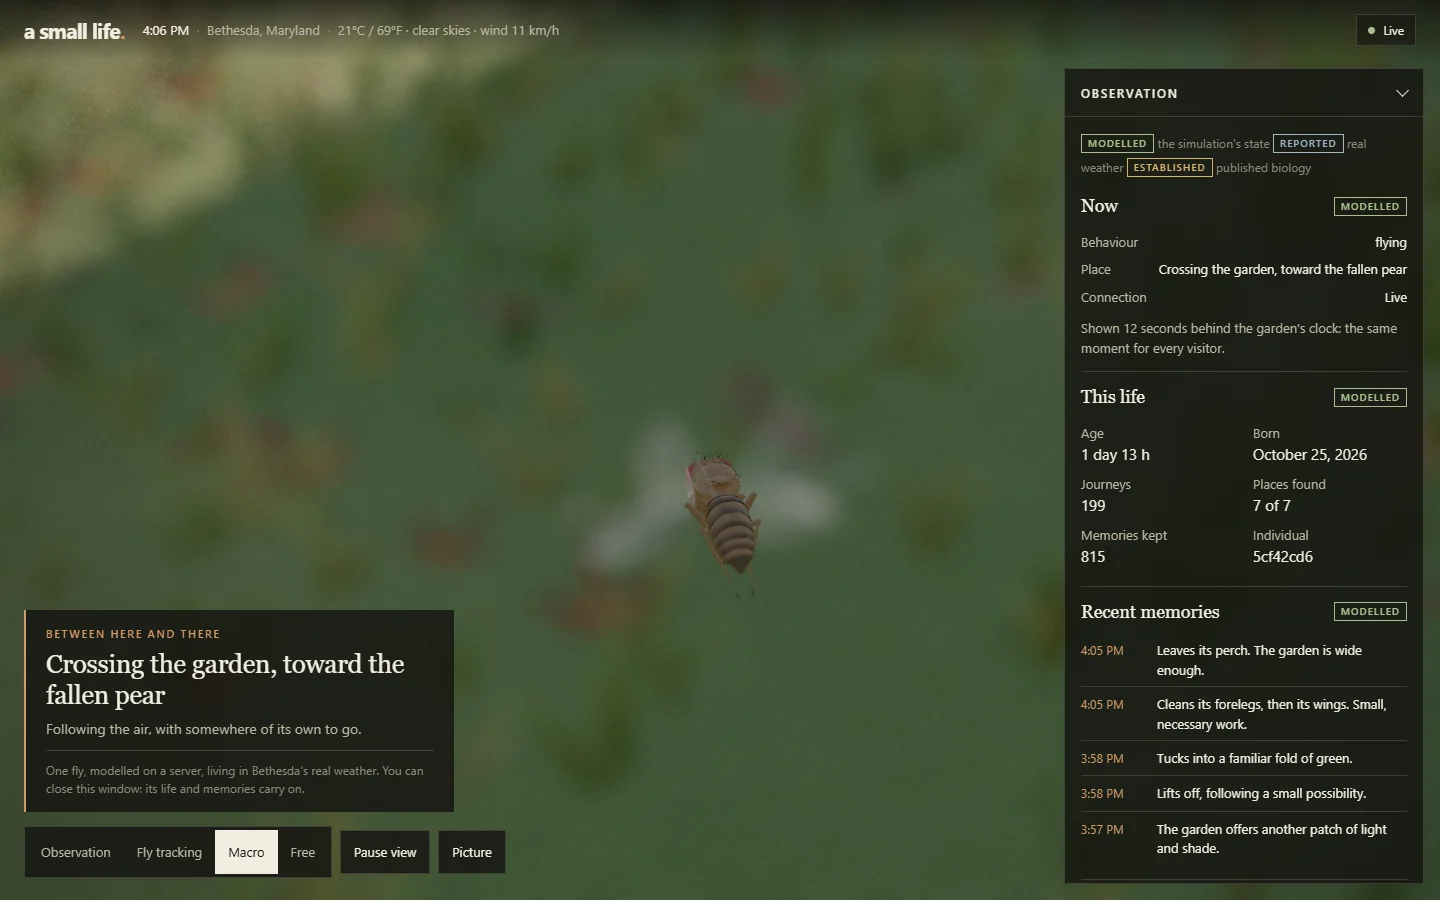
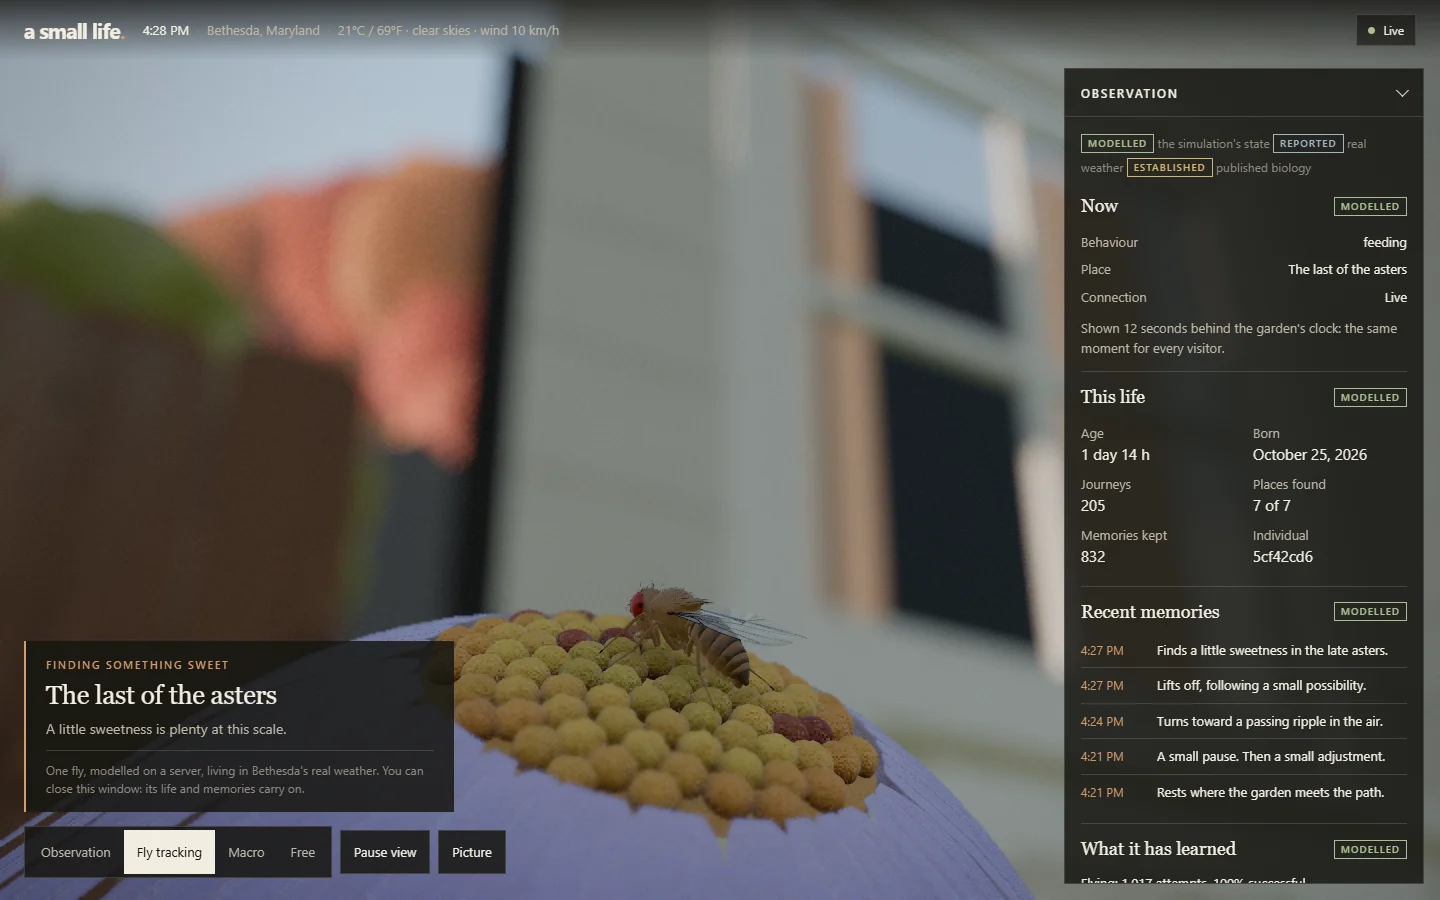
Record the live garden's first clay deploy
The live garden at 150.136.49.49 has served release
garden-20261026-65635e04cc63 (built from 5957f4d) since 20:27 UTC on
2026-10-26. The fly was not restarted: the same life (5cf42cd6) runs in the
same process, and a fresh backup was checked before the swap.

docs/LIVE_GARDEN.md now carries the status, a deployment record, the live
site's check results and a photograph of the live page. The README says the
clay page is live.

diff --git a/docs/LIVE_GARDEN.md b/docs/LIVE_GARDEN.md
@@ -6,13 +6,14 @@ in a 3D Bethesda back garden instead of the flat 2D painting. The page is a
 viewer. The garden's Python service remains the only thing that decides what
 the fly does; this page reads its state and draws it.
 
-**Status (2026-10-26): not deployed.** The live garden still serves its 2D page
-(release `ui-20261025-9abcdf40d541`). Everything below was verified locally,
-against recorded live states and against the live garden's `/api/state` read
-through a local server. [Deploying](#deploying) lists the remaining steps.
-Until they have run and been verified, nothing here describes the live site.
+**Status: live since 2026-10-26.** At 20:27 UTC (4:27 PM in Bethesda) the live
+garden began serving this page as release `garden-20261026-65635e04cc63`,
+built from commit `5957f4d`, in place of its 2D page
+(`ui-20261025-9abcdf40d541`). The fly was not restarted, reset or replaced.
+The [deployment record](#deployment-record-2026-10-26) lists what was checked
+before and after.
 
-| The live page today (11:09 AM, 2026-10-26)                          | The clay garden, on a recorded live state from 11:27 AM the same day |
+| The live page before (11:09 AM, 2026-10-26)                         | The clay garden, on a recorded live state from 11:27 AM the same day |
 | ------------------------------------------------------------------- | -------------------------------------------------------------------- |
 | ![The live 2D garden page](media/live-garden/before-garden.webp)    | ![The clay garden by day](media/live-garden/day.webp)                |
 | ![The live 2D page on a phone](media/live-garden/before-phone.webp) | ![The clay garden on a phone](media/live-garden/after-phone.webp)    |
@@ -23,14 +24,14 @@ Until they have run and been verified, nothing here describes the live site.
 | **Evening**                                                             | **Night**                                                 |
 | ![The garden at dusk](media/live-garden/dusk.webp)                      | ![The saucer by moonlight](media/live-garden/night.webp)  |
 
-![The page drawing the live garden's state at 4:06 PM: the fly in flight toward the fallen pear, beside the observation panel](media/live-garden/live.webp)
+![The live garden after the deploy: the fly feeding on the asters at 4:28 PM, beside the observation panel](media/live-garden/live.webp)
 
-The clay pictures are local renders of this release. All but the last replay
+The clay pictures above the last are local renders of this release, replaying
 live states recorded read-only on 2026-10-26; the dusk and night pictures move
-the clock to 6:21 PM and 9:30 PM to show the light. The last was drawn from
-the live garden's own state at 4:06 PM that day, read through a local server:
-the fly is crossing to the fallen pear, 199 journeys and 815 memories into its
-life.
+the clock to 6:21 PM and 9:30 PM to show the light. The last is the live site
+itself a minute after the deploy, at 4:28 PM, photographed through a local
+proxy because Chrome refuses the bare address: the fly feeding on the asters,
+205 journeys and 832 memories into its life.
 
 ## What the page may and may not do
 
@@ -297,17 +298,18 @@ What only the garden's server can guarantee, and its present limits:
 
 Measured by `tools/garden.mjs check` on release `garden-20261026-65635e04cc63`
 in headless Chrome 151, on this repository's development laptop (Snapdragon X,
-Adreno X1-45 GPU via ANGLE/Direct3D 11). It ran twice: on recorded states
-(replay), and on the live garden's state (live):
+Adreno X1-45 GPU via ANGLE/Direct3D 11). It ran three times: before the deploy
+on recorded states (replay) and on the live garden's state (live), and after
+it on the live site through a proxy (live site):
 
-| Measure                                                   | Replay                                                 | Live                     |
-| --------------------------------------------------------- | ------------------------------------------------------ | ------------------------ |
-| Frame interval, 1440×900, DPR 1, fly tracking, High       | median 16.7 ms, 90th percentile 16.8 ms                | the same                 |
-| Two observers' presented instants                         | 0.006 s apart, same pose                               | 0.002 s apart, same pose |
-| The same individual for both observers and after a reload | yes                                                    | yes (`5cf42cd6`)         |
-| JS heap after cycling every camera and two presets        | +0.45 MB; geometries and textures did not grow         | +0.78 MB; the same       |
-| Requests                                                  | 69, all same-origin GETs; the API only at `/api/state` | the same                 |
-| Console                                                   | no errors, warnings or CSP violations                  | the same                 |
+| Measure                                                   | Replay                                                 | Live                     | Live site                |
+| --------------------------------------------------------- | ------------------------------------------------------ | ------------------------ | ------------------------ |
+| Frame interval, 1440×900, DPR 1, fly tracking, High       | median 16.7 ms, 90th percentile 16.8 ms                | the same                 | the same                 |
+| Two observers' presented instants                         | 0.006 s apart, same pose                               | 0.002 s apart, same pose | 0.007 s apart, same pose |
+| The same individual for both observers and after a reload | yes                                                    | yes (`5cf42cd6`)         | yes (`5cf42cd6`)         |
+| JS heap after cycling every camera and two presets        | +0.45 MB; geometries and textures did not grow         | +0.78 MB; the same       | +0.77 MB; the same       |
+| Requests                                                  | 69, all same-origin GETs; the API only at `/api/state` | the same                 | 65; the same             |
+| Console                                                   | no errors, warnings or CSP violations                  | the same                 | the same                 |
 
 The frame interval is the display's 60 Hz: the page kept pace with it. GPU
 time per frame was not measured separately. A first visit downloads 1.41 MB
@@ -347,9 +349,9 @@ writes `report.json` and the photographs to `garden-check/` (ignored by git).
 
 ## Deploying
 
-Nothing below has been run against the live garden yet. Each step needs the
-owner's go-ahead. The tooling reads the server and its credentials from the
-environment, never from the repository:
+Each step needs the owner's go-ahead. The first deploy followed these steps on
+2026-10-26 ([record](#deployment-record-2026-10-26)). The tooling reads the
+server and its credentials from the environment, never from the repository:
 
 ```sh
 export GARDEN_SSH=ubuntu@150.136.49.49
@@ -403,7 +405,7 @@ export GARDEN_BACKUP_DIR=/path/outside/the/repository
    the release, reads the CSP, and reads `/api/state` twice, 6 s apart.
 6. **Check what the server actually serves:**
    `node tools/garden.mjs check --source proxy --origin http://150.136.49.49`.
-   Then look at the live page in a browser.
+   Then look at its photographs: they are the live page as a browser draws it.
 7. **Roll back, if needed:** `node deploy/garden/deploy.mjs rollback <release>`
    puts back the page that `<release>` replaced, with the same checks.
 
@@ -416,6 +418,19 @@ each needs the owner's approval:
   security headers.
 - `gzip_static on` for the release directories, to serve the `.gz` twins
   (0.44 MB instead of 1.41 MB on a first visit).
+
+### Deployment record: 2026-10-26
+
+| Step        | Result                                                                                                                                                                                                                            |
+| ----------- | --------------------------------------------------------------------------------------------------------------------------------------------------------------------------------------------------------------------------------- |
+| Inspect     | Live index `0a65c8f6…` (`ui-20261025-9abcdf40d541`). Service active, PID 8320, no restarts. Life `5cf42cd6`, 830 memories.                                                                                                        |
+| Backup      | Sunday's `day-6.sqlite3` copied off the server first. Then `bethesda-fly-backup.service` succeeded: `day-0.sqlite3` (69 632 bytes, SHA-256 `7f2d0c04…`) passed the integrity check and holds the same life with all 830 memories. |
+| Build       | From `5957f4d`: `garden-20261026-65635e04cc63`, byte for byte the release the replay and live checks ran on.                                                                                                                      |
+| Publish     | Index `0a65c8f6…` → `9615246d…`, the old one saved in `/var/backups/bethesda-fly-ui/garden-20261026-65635e04cc63/`. The same life in the same process (PID 8320, not restarted), 831 memories before and after.                   |
+| Verify      | 9 of 9 files served byte for byte; the CSP unchanged; the life the same, and advancing.                                                                                                                                           |
+| Proxy check | Passed (the "Live site" column under [Performance](#performance)).                                                                                                                                                                |
+
+To undo it: `node deploy/garden/deploy.mjs rollback garden-20261026-65635e04cc63`.
 
 ## Asset provenance
 

diff --git a/README.md b/README.md
@@ -152,10 +152,10 @@ The garden currently uses a plain-HTTP address, which some browsers or
 networks may block. The [hosted film page](https://lop-nur-twin.vercel.app/film/)
 is a separate viewing option, not the live garden.
 
-A clay exhibit page for the live garden is in `src/garden/`: the same server
-state, drawn as a 3D stop-motion garden that only reads `GET /api/state`. It
-is not deployed yet; the live garden still serves its 2D page.
-[How it works, and how to deploy it](docs/LIVE_GARDEN.md).
+Since 2026-10-26 the live garden has shown its fly in clay: the same server
+state, drawn as a 3D stop-motion garden by a page (`src/garden/`) that only
+reads `GET /api/state`.
+[How it works, and how it was deployed](docs/LIVE_GARDEN.md).
 
 ## One lab, four experiment backends
 
